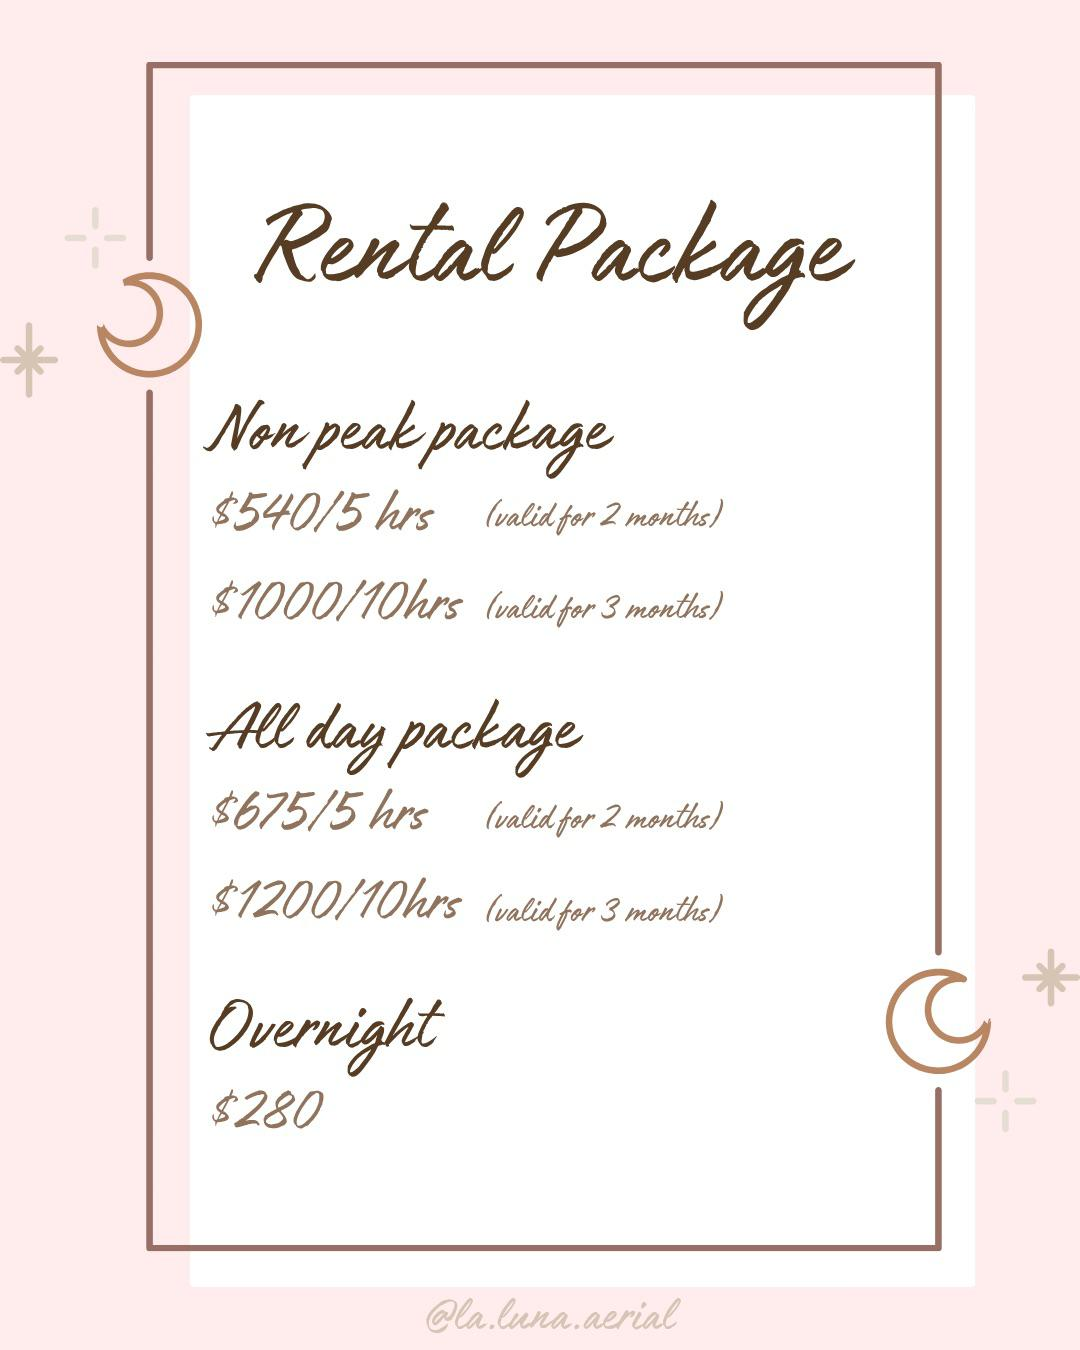
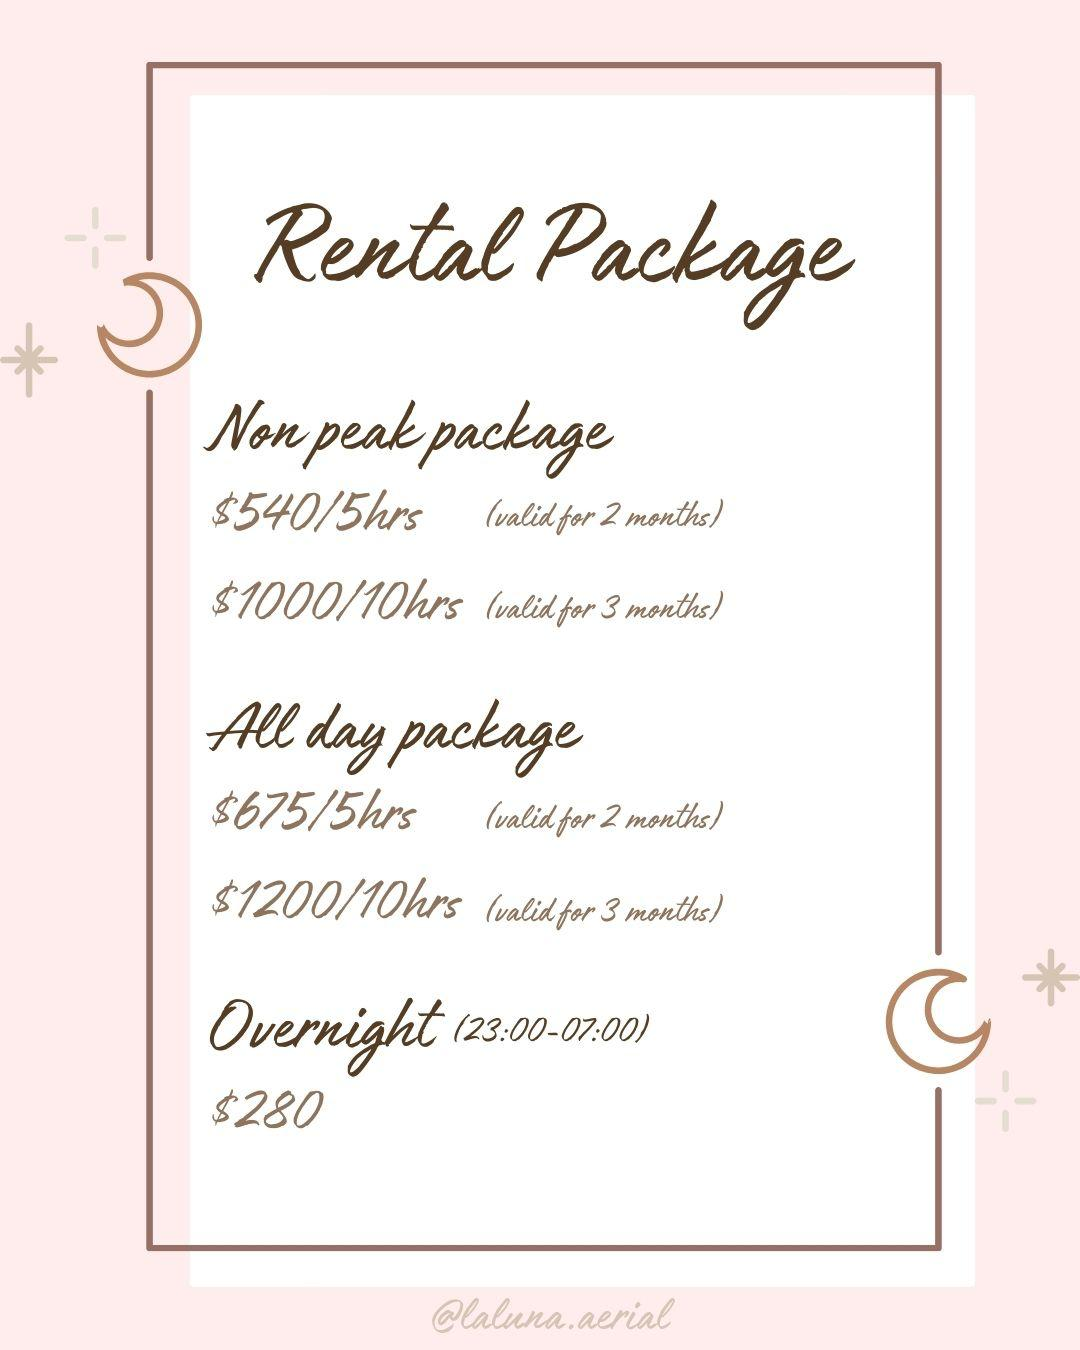
updated the price and RentalPackagePrice.jpg

diff --git a/src/assets/timeCategoriesPrice.js b/src/assets/timeCategoriesPrice.js
@@ -4,17 +4,17 @@ const timeCategories = {
   Peak: {
     startTime: 18, // 6pm
     endTime: 23, // 11pm
-    price: 148,
+    price: 74,
   },
   NonPeak: {
     startTime: 7, // 7am
     endTime: 18, // 6pm
-    price: 118,
+    price: 59,
   },
   Overnight: {
     startTime: 23, // 11pm
     endTime: 7, // 7am
-    price: 88,
+    price: 44,
   },
 };
 
